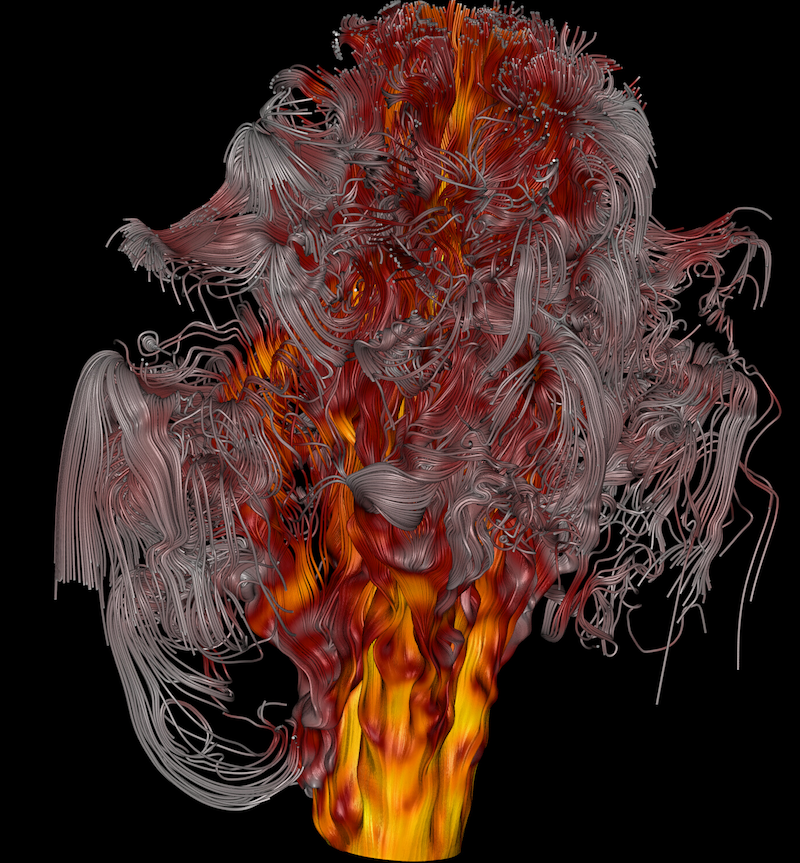
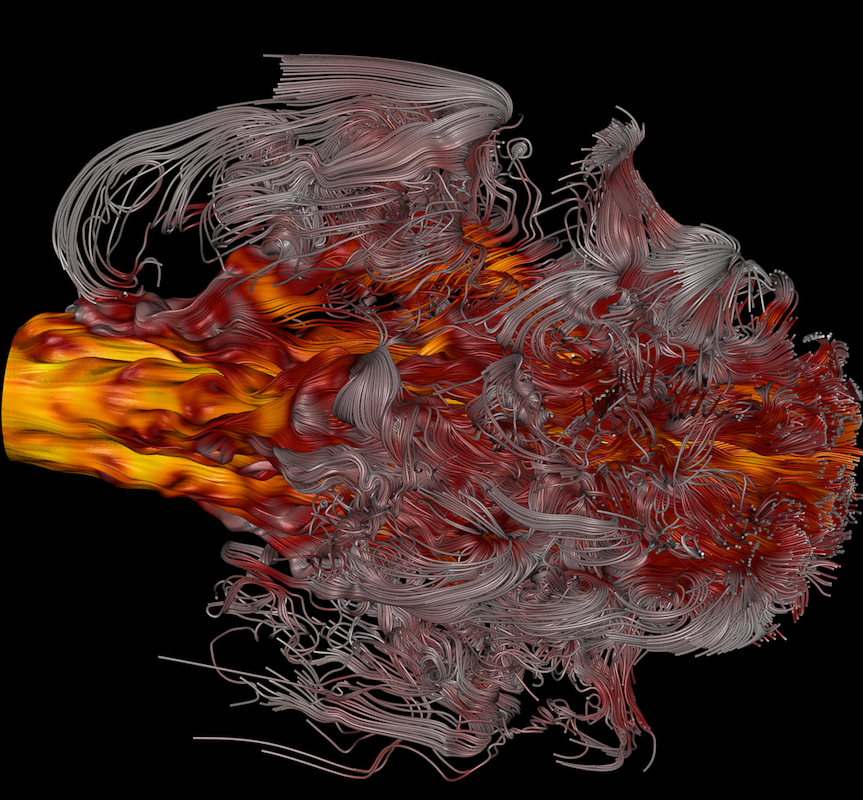
minor image fixes

diff --git a/pages/pages-root-folder/index.md b/pages/pages-root-folder/index.md
@@ -6,22 +6,22 @@
 #
 layout: frontpage
 header:
-  image_fullwidth: gallery_00a.png
+  image_fullwidth: reactor1.png
 widget1:
-  title: "Updates & Plans"
-  url: '/visit-top-50/'
-  image: gallery_25_widget.jpg
-  text: 'Learn about recent releases, plans for upcomming releases, works in progress and other stuff about VisIt, its related technologies and visualization and data analysis in general.'
-widget2:
-  title: "Why use VisIt?"
-  url: '/gallery/'
-  text: '<em>VisIt</em> is extremely scalable.<br/>1. Runs on Unix, Windows & OSX<br/>2. Is Free, <a href="https://github.com/visit-dav/visit/blob/develop/LICENSE">BSD Open Source</a>.<br/>3. Reads 130+ <a href="https://www.visitusers.org/index.php?title=Detailed_list_of_file_formats_VisIt_supports">File Formats</a>.<br/>4. Installed on many <a href="https://science.osti.gov/User-Facilities">LCFs</a>'
-  video: '<center><a href="#" data-reveal-id="videoModal"><img src="images/gallery_12.jpg" width="180" align="middle"/></a></center>'
-widget3:
   title: "Download Now"
   url: 'https://github.com/visit-dav/visit'
   image: widget-github-303x182.jpg
   text: 'Get the <a href="https://github.com/visit-dav/visit/releases/latest">latest release</a> to start visualizing and analyzing your data today. Or, download the <a href="https://github.com/visit-dav/visit/releases/download/v3.0.2/build_visit3_0_2">build_visit</a> script to build a custom version. Please <a href="https://github.com/visit-dav/visit/issues/new">share a comment</a> with us about your experiences with VisIt.'
+widget2:
+  title: "Why use VisIt?"
+  url: '/gallery/'
+  text: '<em>VisIt</em> is extremely scalable.<br/>1. Runs on Unix, Windows & OSX<br/>2. Is Free, <a href="https://github.com/visit-dav/visit/blob/develop/LICENSE">BSD Open Source</a>.<br/>3. Reads 130+ <a href="https://www.visitusers.org/index.php?title=Detailed_list_of_file_formats_VisIt_supports">File Formats</a>.<br/>4. Installed on many <a href="https://science.osti.gov/User-Facilities">LCFs</a>'
+  video: '<center><a href="#" data-reveal-id="videoModal"><img src="images/wing_tip_streamlines_thumb.png" width="303" align="middle"/></a></center>'
+widget3:
+  title: "Updates & Plans"
+  url: 'https://github.com/visit-dav/visit/issues?q=is%3Aopen+is%3Aissue+milestone%3A3.2'
+  image: gallery_00b.png
+  text: 'Learn about recent releases, plans for upcomming releases, works in progress and other stuff about VisIt, its related technologies and visualization and data analysis in general.'
 
 callforaction:
   url: https://elist.ornl.gov/mailman/listinfo/visit-announce

diff --git a/_contributors/mcmiller.md b/_contributors/mcmiller.md
@@ -8,11 +8,10 @@ github: markcmiller86
 role: active
 photo_url: https://people.llnl.gov/getImage?per_intr_no=1011807
 ---
-Mark has been supporting [VisIt](http://visit.llnl.gov) and the lead developer of
-[Silo](https://silo.llnl.gov) supporting 
-scalable I/O requirements of LLNL HPC simulation codes such as
+Mark has supported [VisIt](http://visit.llnl.gov) and led development of
+[Silo](https://silo.llnl.gov) supporting scalable I/O requirements of LLNL HPC simulation codes such as
 [ALE3D](https://wci.llnl.gov/simulation/computer-codes/ale3d)
-[Kull, Ares, LASNEX, Overlink](https://wci.llnl.gov/simulation/computer-codes)
+[Kull, Ares, LASNEX and Overlink](https://wci.llnl.gov/simulation/computer-codes)
 for ~20 years.
 Mark's interests include data models and their impact on software
 interoperability, high performance I/O, and Software Quality Engineering
@@ -21,8 +20,8 @@ for HPC libraries.  In this role, Mark has participated in the development of
 a number of scientific
 database and data modeling technologies including
 [Silo](http://silo.llnl.gov),
-[SAF](https://github.com/markcmiller86/SAF)
 [HDF5](https://support.hdfgroup.org/HDF5/),
+[SAF](https://github.com/markcmiller86/SAF), and
 [ITAPS](https://github.com/markcmiller86/ITAPS/blob/master/docs/Presentations/ITAPS_SC08_Tutorial_Submitted.pdf)
 and most recently the
 [MACSio](https://codesign.llnl.gov/macsio.php)

diff --git a/_posts/2019-11-07-KeyframeingTutorial.md b/_posts/2019-11-07-KeyframeingTutorial.md
@@ -4,6 +4,7 @@ layout: page
 # Content
 #
 title: "Powerful Animations with Keyframing"
+teaser: "Make great movies with ease using keyframing"
 subheadline: "A video tutorial on keyframing"
 categories:
   - movie-making
@@ -18,11 +19,13 @@ header:
 author: miller86
 ---
 This tutorial demonstrates basic functionality of VisIt's keyframing feature
-to produce powerful movies with relative ease. In this demonstration, multile
+to produce powerful movies with relative ease. In this demonstration, multiple
 aspects of the visualization are animated simulatneously including the database
-time-state, the view (rotation and zoom) and a plot's attributes.
+time-state, the view (rotation and zoom) and the plot's attributes.
 
 Some of the aspects of the keyframing window are difficult to master and the
-interface is still somewhat idiosyncratic. However, setting these minor issues
+interface is still somewhat idiosyncratic. For example, it isn't possible 
+to remove states from keyframes once created. Sometimes you have to exit VisIt
+and start over to fix such issues. However, setting these minor issues
 aside, it is possible to create fairly sophisticated animation sequnences with
 VisIt's keyframing feature.
